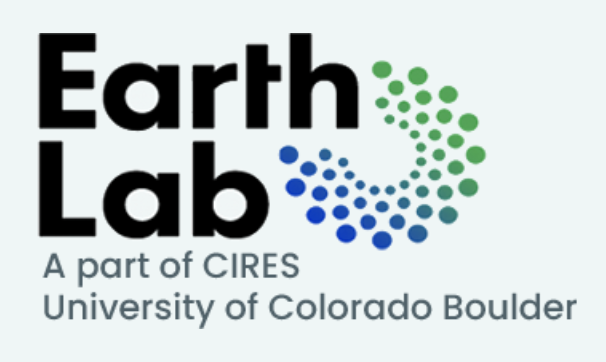
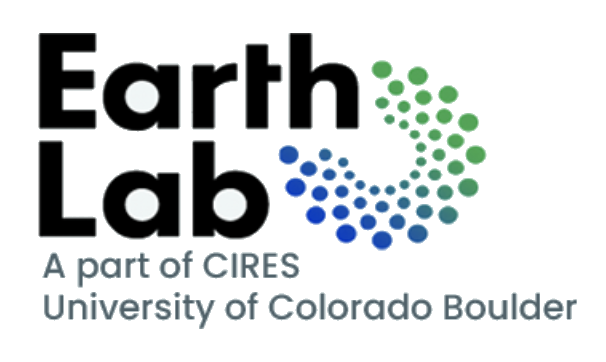
Updated main theme and fixed small typos

diff --git a/assets/js/firedpy_map.js b/assets/js/firedpy_map.js
@@ -3,54 +3,8 @@ const map = L.map('map', {
     zoom: 3,
     zoomControl: false
 });
-
-fetch("assets/map/readme_links.csv")
-    .then(res => res.text())
-    .then(text => {
-        const rows = text.trim().split("\n").map(r => r.split(","));
-        const header = rows[0].map(h => h.trim());
-        const data = rows.slice(1);
-
-        const regionCol = header.indexOf("Region");
-        const countryCol = header.indexOf("Country");
-
-        const groups = {};
-
-        data.forEach(row => {
-            const region = row[regionCol]?.trim();
-            const country = row[countryCol]?.trim();
-
-            if (!region || !country) return;
-
-            if (!groups[region]) groups[region] = [];
-            groups[region].push(country);
-        });
-
-        const accordion = document.getElementById("accordion");
-
-        Object.keys(groups).forEach(regionName => {
-            const headerDiv = document.createElement("div");
-            headerDiv.className = "group-header";
-            headerDiv.textContent = regionName;
-
-            const contentDiv = document.createElement("div");
-            contentDiv.className = "group-content";
-
-            groups[regionName].forEach(country => {
-                const p = document.createElement("p");
-                p.textContent = country;
-                contentDiv.appendChild(p);
-            });
-
-            headerDiv.addEventListener("click", () => {
-                contentDiv.style.display =
-                    contentDiv.style.display === "block" ? "none" : "block";
-            });
-
-            accordion.appendChild(headerDiv);
-            accordion.appendChild(contentDiv);
-        });
-    });
+const countryLayerIndex = {};
+let defaultStyleRef;  // to restore style
 
 function countryStyle(feature) {
     const p = feature.properties;
@@ -97,15 +51,21 @@ L.tileLayer('https://tile.openstreetmap.org/{z}/{x}/{y}.png', {
 const processedCountriesLayer = new L.GeoJSON.AJAX(
     "assets/map/processed_countries_with_params.geojson",
     {
-        style: countryStyle, 
+        style: countryStyle,
 
         onEachFeature: function (feature, layer) {
-            // Build popup content
+            const name = feature.properties.NAME.trim();
+
+            // store reference to this polygon
+            countryLayerIndex[name] = layer;
+
+            if (!defaultStyleRef) defaultStyleRef = countryStyle(feature);
+
             const p = feature.properties;
             const popupHtml = `
                 <div id="popup">
                     <p>
-                        <center>${p.NAME}</center> <br>
+                        <center>${p.NAME}</center><br>
                         Version 1.0: ${makeLink(p.V2022)}<br>
                         Version 2.0: ${makeLink(p.V2024S1T5)}<br>
                         Version 2.1: ${makeLink(p.f_file_name)} coming soon!
@@ -115,7 +75,6 @@ const processedCountriesLayer = new L.GeoJSON.AJAX(
 
             layer.bindPopup(popupHtml);
 
-            // Zoom to polygon on click
             layer.on("click", function () {
                 map.fitBounds(layer.getBounds());
                 layer.openPopup();
@@ -124,8 +83,146 @@ const processedCountriesLayer = new L.GeoJSON.AJAX(
     }
 );
 processedCountriesLayer.addTo(map);
+function buildAccordion(filterText = "") {
+    const accordion = document.getElementById("accordion");
+    accordion.innerHTML = "";
 
+    const groups = {};
+    const filter = filterText.toLowerCase();
+
+    allRows.forEach(row => {
+        const region = row[regionCol]?.trim();
+        const country = row[countryCol]?.trim();
+        if (!region || !country) return;
+
+        const searchable = (region + " " + country).toLowerCase();
+        if (!searchable.includes(filter)) return;
+
+        if (!groups[region]) groups[region] = new Set();
+        groups[region].add(country);
+    });
+
+    Object.keys(groups).forEach(regionName => {
+        const headerDiv = document.createElement("div");
+        headerDiv.className = "group-header";
+        headerDiv.textContent = regionName;
+
+        const contentDiv = document.createElement("div");
+        contentDiv.className = "group-content";
+
+        // auto-open if searching
+        contentDiv.style.display = filterText ? "block" : "none";
+
+        groups[regionName].forEach(country => {
+            const p = document.createElement("p");
+            p.textContent = country;
+
+            // 🔥 hover highlight
+            p.addEventListener("mouseenter", () => highlightCountry(country));
+            p.addEventListener("mouseleave", () => resetCountry(country));
+
+            // click zoom
+            p.addEventListener("click", () => {
+                const layer = countryLayerIndex[country];
+                if (layer) {
+                    map.fitBounds(layer.getBounds());
+                    layer.openPopup();
+                }
+            });
+
+            contentDiv.appendChild(p);
+        });
+
+        headerDiv.addEventListener("click", () => {
+            contentDiv.style.display =
+                contentDiv.style.display === "block" ? "none" : "block";
+        });
+
+        accordion.appendChild(headerDiv);
+        accordion.appendChild(contentDiv);
+    });
+}
+let allRows = [];
+let regionCol, countryCol;
+
+fetch("assets/map/readme_links.csv")
+    .then(res => res.text())
+    .then(text => {
+        const rows = text.trim().split("\n").map(r => r.split(","));
+        const header = rows[0].map(h => h.trim());
+
+        regionCol = header.indexOf("Region");
+        countryCol = header.indexOf("Country");
+
+        allRows = rows.slice(1);
+        buildAccordion();
+    });
+
+function buildAccordion(filterText = "") {
+    const accordion = document.getElementById("accordion");
+    accordion.innerHTML = "";
+
+    const groups = {};
+    const filter = filterText.toLowerCase();
+
+    allRows.forEach(row => {
+        const region = row[regionCol]?.trim();
+        const country = row[countryCol]?.trim();
+        if (!region || !country) return;
+
+        const searchable = (region + " " + country).toLowerCase();
+        if (!searchable.includes(filter)) return;
+
+        if (!groups[region]) groups[region] = new Set();
+        groups[region].add(country);
+    });
+
+    Object.keys(groups).forEach(regionName => {
+        const headerDiv = document.createElement("div");
+        headerDiv.className = "group-header";
+        headerDiv.textContent = regionName;
+
+        const contentDiv = document.createElement("div");
+        contentDiv.className = "group-content";
+
+        // auto-open if searching
+        contentDiv.style.display = filterText ? "block" : "none";
+
+        groups[regionName].forEach(country => {
+            const p = document.createElement("p");
+            p.textContent = country;
+
+            // 🔥 hover highlight
+            p.addEventListener("mouseenter", () => highlightCountry(country));
+            p.addEventListener("mouseleave", () => resetCountry(country));
+
+            // click zoom
+            p.addEventListener("click", () => {
+                const layer = countryLayerIndex[country];
+                if (layer) {
+                    map.fitBounds(layer.getBounds());
+                    layer.openPopup();
+                }
+            });
+
+            contentDiv.appendChild(p);
+        });
+
+        headerDiv.addEventListener("click", () => {
+            contentDiv.style.display =
+                contentDiv.style.display === "block" ? "none" : "block";
+        });
+
+        accordion.appendChild(headerDiv);
+        accordion.appendChild(contentDiv);
+    });
+}
+
+// live search
 const sidebar = document.getElementById("sidebar");
+document.getElementById("searchBox").addEventListener("input", e => {
+    buildAccordion(e.target.value);
+});
 
 // Disable map scroll-zoom when hovering over sidebar
 sidebar.addEventListener("mouseenter", () => {

diff --git a/index.html b/index.html
@@ -17,7 +17,7 @@
 		<div id="top"></div>
 		<div id="scrollheader">
 			<header class="col-12">
-				<span><a href="https://earthlab.colorado.edu/"><img src="assets/imgs/earthlab_homepage.png" style="width: 150px;"/></a></span>
+				<span><a href="https://earthlab.colorado.edu"><img src="assets/imgs/earthlab_homepage.png" style="width: 150px;"/></a></span>
 			</header>
 		</div>
 		<!-- Header -->
@@ -58,6 +58,10 @@
 								<h2>Methodological information for FIREDpy 2.0, description of 2000-2024 datasets:</h2>
 							</header>
 							<p>Coming soon...</a></p>
+							<header class="major">
+								<h2>Data Sharing Agreement</h2>
+							</header>
+							<p>FIREDpy is currently in active development, and newer versions of the algorithm and data products are shared on an individual basis. All data products generated from unpublished versions of FIREDpy require permission from PI Jennifer K. Balch prior to use in publications, presentations, or public dissemination. These conversations ensure appropriate acknowledgment of the development team's contributions and proper context for the algorithm's current capabilities and limitations. Please use the above citation for attributing credit. For data requests or collaboration inquiries, please contact <a href="mailto::nate.hofford@colorado.edu" style="border-bottom: dotted 1px #666;">Nate Hofford</a>, University of Colorado Boulder.</a></p>
 						</div>
 					</div>
 				</div>
@@ -70,7 +74,8 @@
 							<header class="major">
 								<h1 style="margin:0;">Proccessed Countries</h1>
 							</header>
-							<p>Click on your favorite country to view avaliable fire perimeter datasets</p>
+							<p style="margin: 0 0 0.5em 0;">Already-created products are displayed below. They are housed in the CU Scholar data repository in the <a href="https://scholar.colorado.edu/collections/pz50gx05h" style="border-bottom: dotted 1px #666;">Earth Lab Data collection</a>, or <a href="https://scholar.colorado.edu/catalog?f%5Bacademic_affiliation_sim%5D%5B%5D=Earth+Lab&locale=en" style="border-bottom: dotted 1px #666;">here</a>.
+								All of the created products have an event-level shapefile in .gpkg and .shp formats. Most countries also have the daily-level shapefile for the V2024 products, but for the V2022 products these were not created for most countries in Africa and Asia due to computational restrictions.<br><br>Click on your favorite country to view avaliable fire perimeter datasets:</p>
 						</div>
 					</div>
 				</div>
@@ -88,7 +93,7 @@
 								<span class="square sq3"></span>FIREDpy 2.0 V2024VST<br>(variable ST)
 							</div>
 						</div>
-						<h2 style="color: black; text-align: left; margin:0;">Search:</h2>
+						<input id="searchBox" type="text" placeholder="Search for a country..." style="width:100%; padding:6px; margin-bottom:8px; height:30px;">
 						<div id="accordion"></div>
 					</div>
 				</div></center>
@@ -97,7 +102,7 @@
 
 		<!-- Three -->
 			<section id="three" class="main style1 special">
-				<div class="container">
+				<div class="container" style="text-align: left;">
 					<header class="major">
 						<h1>Run your own analysis!</h1>
 					</header>
@@ -107,8 +112,8 @@
 					<header>
 						<h1>The MODIS Sinusioidal Project</h1>
 					</header>
+					<p>You may specify study areas for FIREDpy using individual MODIS tiles. This product uses a Sinusoidal, Lambert Azimuthal Equal-Area projection. There are several spatial resolutions available for this data, but FIREDpy uses the 500m resolution (actual distances depend on location). For more information about this projection, click <a href="https://modis-land.gsfc.nasa.gov/MODLAND_grid.html" style="border-bottom: dotted 1px #666;">here</a>. If you would like to use the MODIS sinusoidal grid IDs to identify FIREDpy study areas, see the visualization of this grid below.</p>
 					<span><img width="105%" alt="image" src="assets/imgs/modis_land_id_map_robinson.png" /></span>
-					</ul>
 				</div>
 			</section>
 
@@ -116,7 +121,7 @@
 			<section id="four" class="main style2 special">
 				<div class="container">
 					<header class="major">
-						<h2>Avaliable Parameters</h2>
+						<h2 >Avaliable Parameters</h2>
 					</header>
 					<table>
 						<thead>
@@ -201,23 +206,41 @@
 								<td>Gets the HDF4 files from the MODIS tiles starting in this year. Earliest available is 2001</td>
 							</tr>
 							<tr>
-								<td>--end_year</td>
+								<td>--end_year, -y2</td>
 								<td>integer</td>
 								<td>-y2 2021</td>
 								<td>Gets the HDF4 files from the MODIS tiles ending in this year. Latest available is 2021</td>
 							</tr>
 						</tbody>
 					</table>
+					<header class="major" style="text-align: left;">
+						<h2>Boundary files are available for use as areas of interest</h2>
+					</header>
+					<p style="text-align: left;">
+						For example, using the -sf option to select fire data for Colorado, USA.: <pre><code style="background:#444">firedpy -sf ~/firedpy/firedpy/data/us_states/colorado.gpkg</code></pre></p>
+					<p>
+						<ul style="text-align: left;">
+							<li>Country boundaries are in data/individual_countries<br></li>
+							<li>Continent boundaries are in data/continents<br></li>
+							<li>United States state boundaries for the United States of America are in dat/us_states<br></li>
+							<li>Australian state boundaries are in data/australian_states<br></li>
+							<li>If using the ineractive option, when prompted for the name of the country, spaces will be replaced with spaces and case does not matter.</li>
+						</ul>
+					</p>
+					<header class="major" style="text-align: left;">
+						<h2>Have you used FIREDpy?</h2>
+					</header>
+					<p style="text-align: left;">The algorithm and derived data products are under active development. Please raise an issue with any suggestions to help us improve firedpy. Or just email Adam and he will be overjoyed to talk about firedpy. If you'd like to contribute, check out the GitHub</p>
 					<ul class="actions special">
-						<li><a href="#" class="button wide primary">Questions?</a></li>
-						<li><a href="#" class="button wide">Learn More</a></li>
+						<li><a href="mailto::admahood@duck.com" class="button wide primary">Contact</a></li>
+						<li><a href="https://github.com/earthlab/firedpy" class="button wide">Contribute</a></li>
 					</ul>
 				</div>
 			</section>
 
 			<section id="five" class="main style1">
 				<div class="container">
-					<header class="major special">
+					<header class="major special" style="text-align: left;">
 						<h2>Installation</h2>
 					</header>
 

diff --git a/assets/css/main.css b/assets/css/main.css
@@ -1,4 +1,3 @@
-@import url("fontawesome-all.min.css");
 @import url("https://fonts.googleapis.com/css?family=Source+Sans+Pro:300,300italic,400,400italic");
 
 html, body, div, span, applet, object,
@@ -164,8 +163,8 @@ input, select, textarea {
 /* Map */
 
     #map {
-		width: 75%;
-		height: 900px; 
+		width: 70%;
+		height: 800px; 
 		color: black;
 	}
 
@@ -207,7 +206,6 @@ input, select, textarea {
 		-webkit-transition: color 0.2s ease-in-out, border-color 0.2s ease-in-out;
 		-ms-transition: color 0.2s ease-in-out, border-color 0.2s ease-in-out;
 		transition: color 0.2s ease-in-out, border-color 0.2s ease-in-out;
-		border-bottom: dotted 1px #666;
 		color: inherit;
 		text-decoration: none;
 	}
@@ -2719,8 +2717,7 @@ input, select, textarea {
 	}
 
 	table {
-		margin: 0 0 2em 0;
-		width: 100%;
+		width: 105%;
 	}
 
 		table tbody tr {
